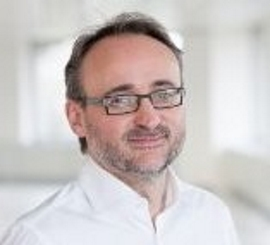
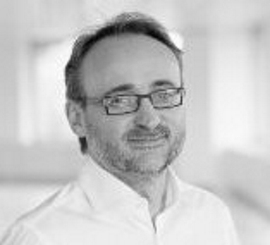
changes teams pictures

Changed region(s): [[0.237, 0.1429, 0.6815, 0.6857]]

diff --git a/V2/index.html b/V2/index.html
@@ -759,7 +759,7 @@
                 <div class="one_fourth last animate" data-anim-type="fadeInUp">
                     <div class="box">
 
-                        <img src="images/teams/nicolas.jpg" alt="" class="rimg" />
+                        <img src="images/teams/nicolas.png" alt="" class="rimg" />
 
                         <h5>Nicolas Lemielle</h5>
                         <h6>Co-Founder</h6>
